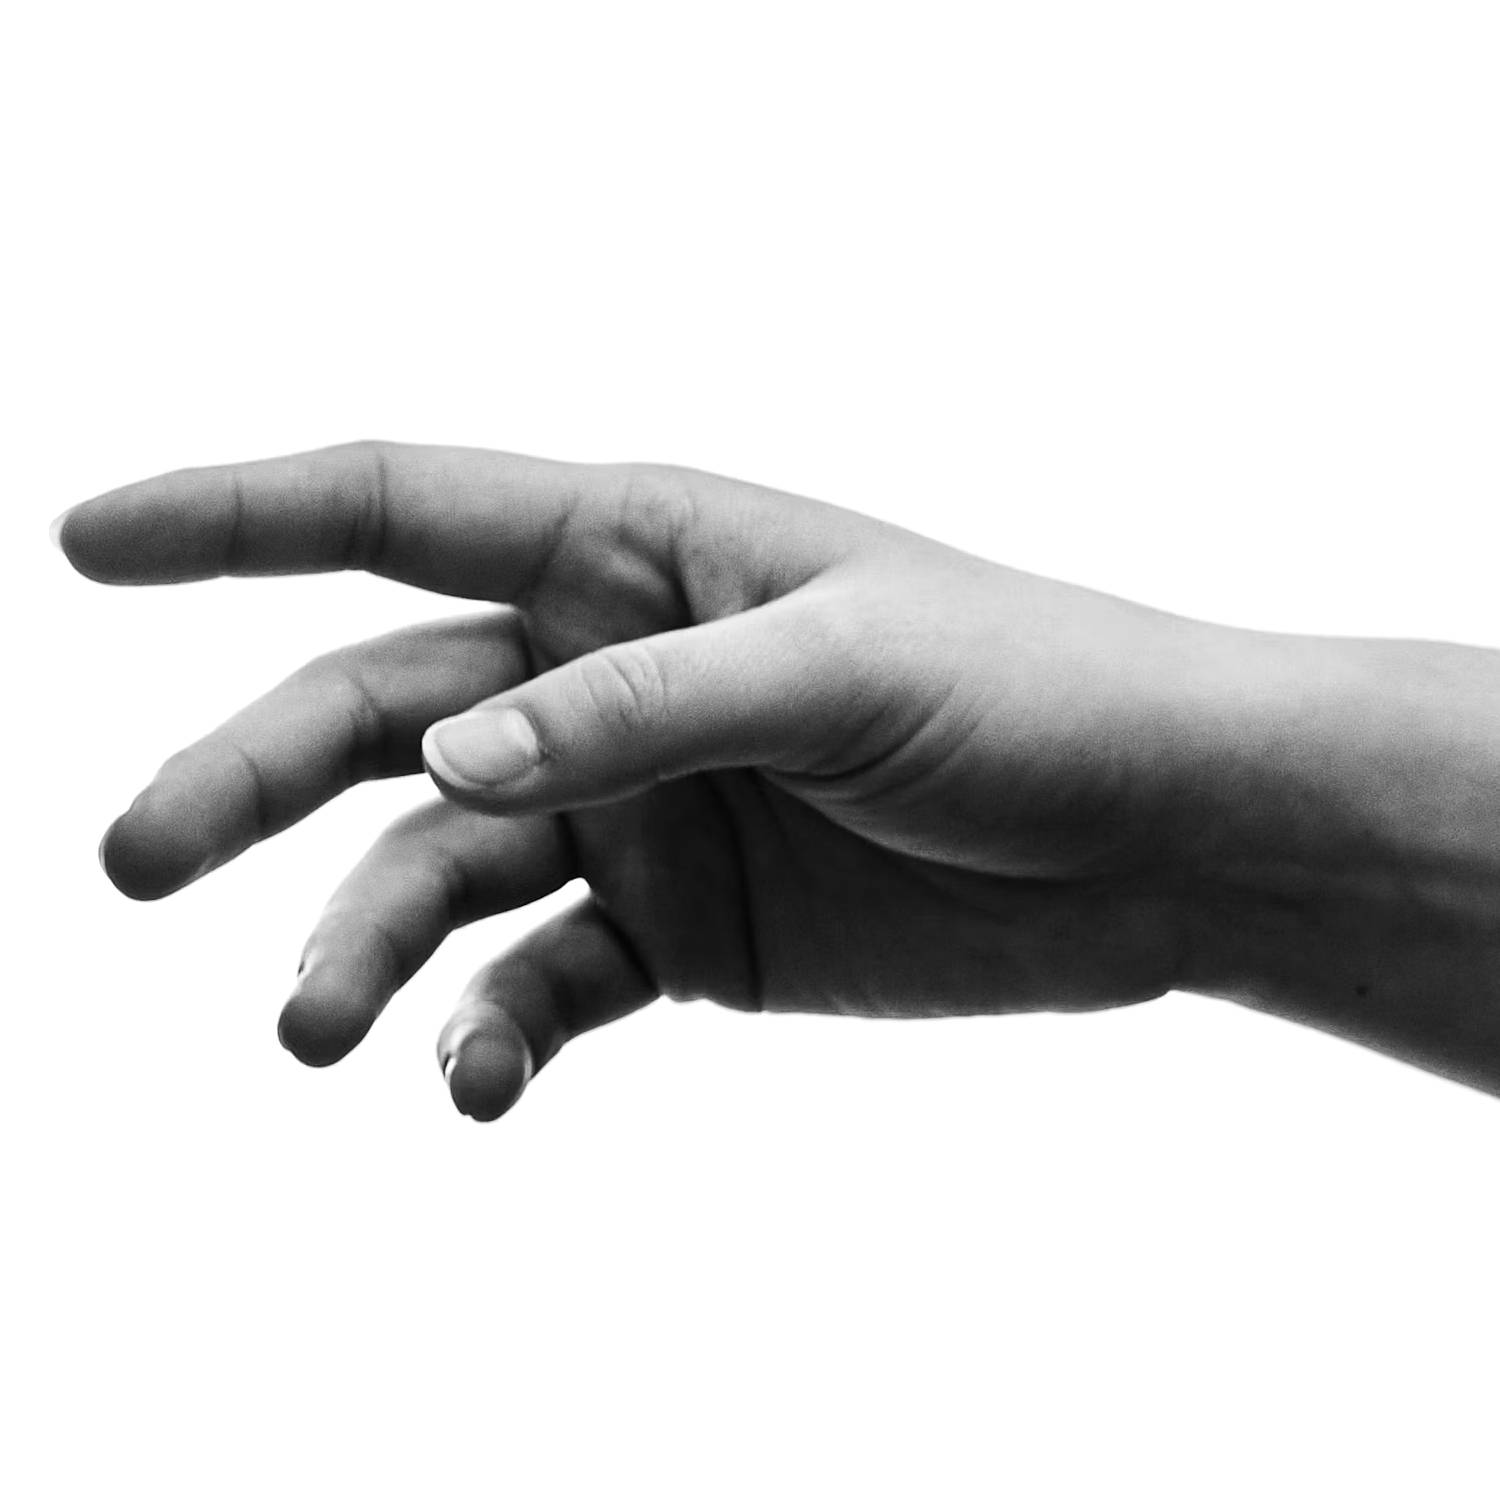
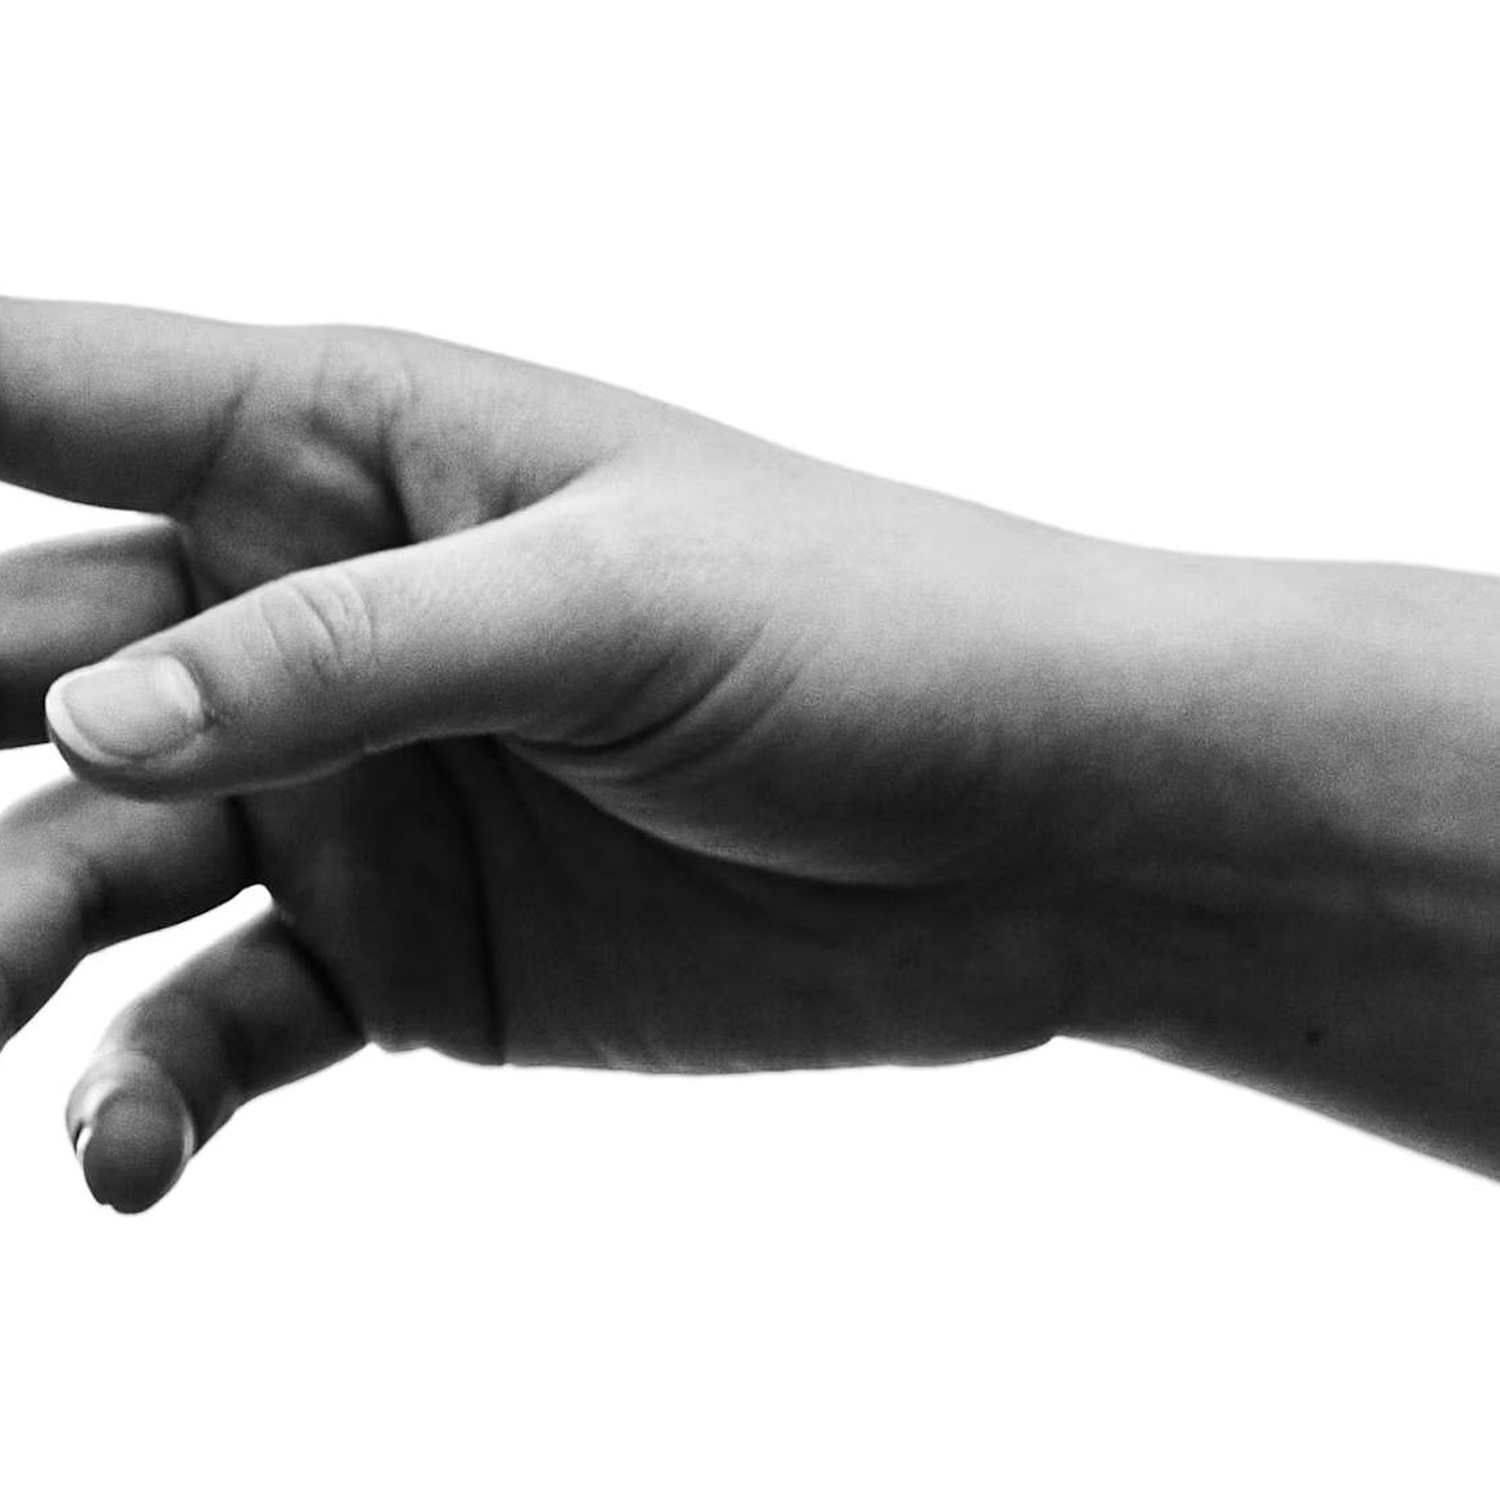
Rescale right ASCII hand to match left hand and clean up OctoPair display typography

Changed region(s): [[0.0, 0.184, 1.0, 0.828]]

diff --git a/src/components/ui/animated-footer.jsx b/src/components/ui/animated-footer.jsx
@@ -106,37 +106,8 @@ function getScrollParent(node) {
   return null;
 }
 
-/** Calculate Antigravity-inspired stepped upward float for display typography */
-function getAntigravityOffset(word, index) {
-  const clean = String(word).trim();
-  if (clean.toLowerCase() === "octopair") {
-    // "Octo" = 0..3 (grounded), "Pair" = 4..7 (ascending into anti-gravity)
-    switch (index) {
-      case 0: return { y: "0em", rotate: "0deg" };
-      case 1: return { y: "0em", rotate: "0deg" };
-      case 2: return { y: "0em", rotate: "0deg" };
-      case 3: return { y: "0em", rotate: "0deg" };
-      case 4: return { y: "-0.08em", rotate: "-1deg" };
-      case 5: return { y: "-0.18em", rotate: "0.5deg" };
-      case 6: return { y: "-0.30em", rotate: "-1deg" };
-      case 7: return { y: "-0.44em", rotate: "1.5deg" };
-      default: return { y: "0em", rotate: "0deg" };
-    }
-  }
-  // Generic: last 45% of letters float upward into anti-gravity
-  const splitPoint = Math.floor(clean.length * 0.55);
-  if (index >= splitPoint) {
-    const progress = (index - splitPoint + 1) / (clean.length - splitPoint);
-    return {
-      y: `${-progress * 0.42}em`,
-      rotate: `${(index % 2 === 0 ? -1 : 1) * progress * 1.5}deg`,
-    };
-  }
-  return { y: "0em", rotate: "0deg" };
-}
-
 export function AnimatedFooter({
-  headingLines = ["<OctoPair />"],
+  headingLines = ["OctoPair"],
   leftImage = "/animated-footer/hand-left.jpg",
   rightImage = "/animated-footer/hand-right.jpg",
   background = "#09090b",
@@ -685,39 +656,28 @@ export function AnimatedFooter({
       {/* Display headings along the bottom edge / Antigravity kinetic product title */}
       <div
         ref={headingWrapRef}
-        className="relative z-10 w-full flex items-end justify-center px-4 pt-12 pb-6 sm:pb-8 pointer-events-none select-none will-change-transform overflow-visible"
+        className="relative z-10 w-full flex items-end justify-center px-4 pt-10 pb-6 sm:pb-8 pointer-events-none select-none will-change-transform overflow-visible"
       >
         {headingLines.map((word, wi) => (
           <h2
             key={`${word}-${wi}`}
             aria-label={word}
-            className="flex items-end justify-center leading-none tracking-tight pt-14 pb-2 transition-opacity duration-300 overflow-visible"
+            className="flex items-end justify-center leading-none tracking-[-0.04em] pt-8 pb-2 transition-opacity duration-300 overflow-visible"
           >
-            {Array.from(word).map((ch, ci) => {
-              const antigravity = getAntigravityOffset(word, ci);
-              return (
-                <span
-                  key={ci}
-                  className="inline-block overflow-visible will-change-transform"
-                  style={{
-                    transform: `translateY(${antigravity.y}) rotate(${antigravity.rotate})`,
-                    transformOrigin: "bottom center",
-                  }}
-                >
-                  <span
-                    data-af-char
-                    aria-hidden="true"
-                    className={cn(
-                      "inline-block font-sans font-black tracking-[-0.04em] leading-none will-change-transform transition-colors duration-200",
-                      titleClassName || "bg-gradient-to-b from-white via-[#f4f4f5] to-[#a1a1aa] bg-clip-text text-transparent"
-                    )}
-                    style={{ fontSize: "clamp(3rem, 15cqw, 11rem)" }}
-                  >
-                    {ch === " " ? "\u00A0" : ch}
-                  </span>
-                </span>
-              );
-            })}
+            {Array.from(word).map((ch, ci) => (
+              <span
+                key={ci}
+                data-af-char
+                aria-hidden="true"
+                className={cn(
+                  "inline-block font-sans font-black tracking-[-0.04em] leading-none will-change-transform",
+                  titleClassName || "bg-gradient-to-b from-white via-neutral-100 to-neutral-400 bg-clip-text text-transparent"
+                )}
+                style={{ fontSize: "clamp(3rem, 14cqw, 10.5rem)" }}
+              >
+                {ch === " " ? "\u00A0" : ch}
+              </span>
+            ))}
           </h2>
         ))}
       </div>

diff --git a/src/components/landing/LandingFooter.jsx b/src/components/landing/LandingFooter.jsx
@@ -26,7 +26,7 @@ const LandingFooter = () => {
       leftHoverColor="#ccff00"
       rightHoverColor="#b266ff"
       hoverCharColor="#09090b"
-      titleClassName="bg-gradient-to-b from-white via-[#f4f4f5] to-[#a1a1aa] bg-clip-text text-transparent font-sans font-black tracking-[-0.04em]"
+      titleClassName="bg-gradient-to-b from-white via-neutral-100 to-neutral-400 bg-clip-text text-transparent font-sans font-black tracking-[-0.04em]"
       className="border-t border-white/10 pt-16"
       bottomContent={
         <div className="max-w-7xl mx-auto px-4 sm:px-6 lg:px-8">
